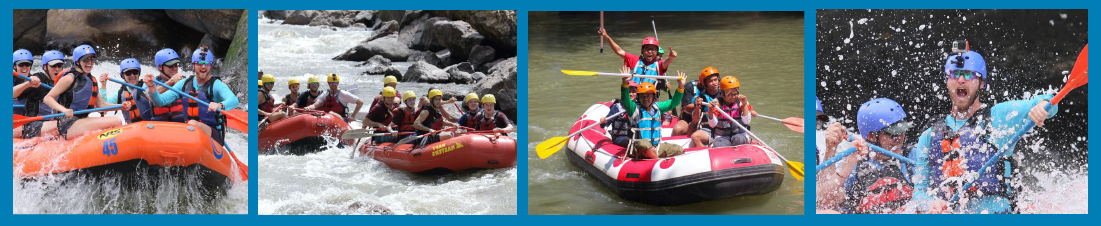
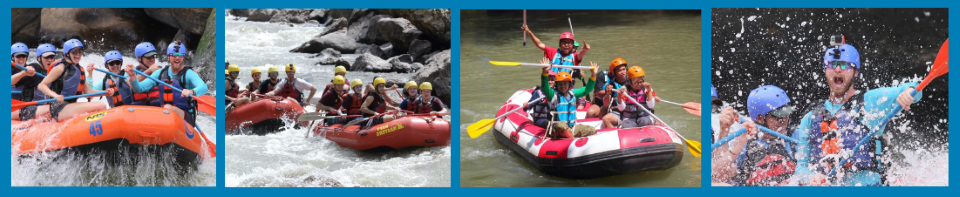
added content to faq

diff --git a/rafting/faq.html b/rafting/faq.html
@@ -23,24 +23,75 @@
 
     <nav>
       <ul>
-        <li><a href="index.html" title= "Site Home" >Home</a></li>
+        <li><a href="index.html" title= "Site Home">Home</a></li>
         <li><a href="river_trips.html" title="River Trips">River Trips</a></li>
-        <li><a href="faq.html" title="FAQ">FAQ</a></li>
+        <li><a href="faq.html" title="FAQ" class="active">FAQ</a></li>
         <li><a href="#" title="Book Your Expedition">Reservations</a></li>
       </ul>
     </nav>
   </header>
-
+  <h1>Frequently Asked Questions</h1>
   <main>
 
-    <section class= "container">
-      <h1>Frequently Asked Questions</h1>
+    <div class="container_faq">
+
  <!--Insert a YouTube Link to a Video-->
  <!--Insert the Book Now button-->
  <!--Insert a pull-down menu of questions and answers-->
- <!--Insert the Book Now button-->
+      <div class="faq_accordion">
 
-    </section>
+        <input type="checkbox" class="hidecontent"/>
+          <label>Which river trips do you recommend for children?</label>
+          <div class="content_hidecontent">
+            <p>We have found however that children over the age of 8 seem to enjoy it more overall (And parents especially enjoy it more if their children are all over 8).</p>
+            <p>A common concern we get from parents is that their children will be bored stuck on a boat for hours at a time. The areas we are rafting through are some of the most beautiful in the world, and you never know what you might see around any corner. Not to mention the rapids which keep things very interesting. Each boat also comes equipped with a guide. It has been proven that river guides are unable to go for very long at all without telling stories...some of which are even true!</p>
+          </input>
+
+        <input type="checkbox" class="hidecontent"/>
+          <label>Do I need to be a good swimmer to take a river trip?</label>
+          <div class="content_hidecontent">
+            <p>Everyone on commercial rafting trips wears coast guard approved life vest or personal flotation device (PFD). Many non swimmers go on rafting trips and have a great time. Your guide will give you an in depth and engaging safety talk before your trip begins explaining what you should prepare for and do in the event that you fall out of the raft.
+            </p>
+            <p>As with all adventure sports, there is an inherent and assumed element of risk. To help ensure your safety, our guides are all certified in Wilderness First aid and all start with at least 3 years of rafting experience. The most common injuries are sunburns and injuries that occur on land.</p>
+        </input>
+
+        <input type="checkbox" class="hidecontent"/>
+          <label>What is included in the trip?</label>
+          <div class="content_hidecontent">
+            <p>We will provide all necessary camping equipment. This includes a sleeping bag, foam pad, waterproof duffle bag, small waterproof day bag, tent and a cot, eating utensils and camping chair.</p>
+            <p>We provided water and lemonade during the day. Coffee, tea and hot chocolate are provided during the morning and evening hours. You may bring beer, liquor and soft drinks (in reasonable amounts, 2 cans per day). You may purchase these items either the night before the trip, or on your way to the put-in. 3 meals per day, plus snacks</p>
+        </input>
+
+        <input type="checkbox"class="hidecontent"/>
+          <label>What do I need to bring?</label>
+          <div class="content_hidecontent">
+            <p>The most effective way to plan is to be prepared for both hot & dry and cold & wet.</p>
+            <p>Rain jacket/waterproof pants- do not bring ponchos! <p>Quick-dry shirts and shorts, long sleeve cotton shirt and pants help keep you cooler on hot days. Button-down shirts provide more sun protection on the neck. Light-weight cotton or nylon pants or sarongs.</p>
+            <p>Swim trunks work great as shorts. If you tend to get cold, a polypropylene long underwear top and bottom can keep you warm. Women wear swimsuits or quick dry underwear and sport bras as a base layer during the day. Over the base layer, a pair of quick- dry shorts and the shirt of your choice (polypropylene or cotton). Two piece swim suits are convenient when changing or going to the bathroom.</p>
+            <p>Sunglasses and large brim hats with a good quality straps offer protection from the sun.</p>
+            </p>
+        </input>
+
+        <input type="checkbox" class="hidecontent"/>
+          <label>What can we expect on a typical day?</label>
+          <div class="content_hidecontent">
+            <p>Arise in the soft light of the early morning after a night spent sleeping under a beautiful starry sky. Have a hearty warm breakfast of fresh blueberry pancakes or omelets to order, then pack your things and prepare for the day. The day is filled with some combination of swift water, rapids, calms, hikes, history, geology, stories, and more good food. We try to hit camp around 4 or 5, after setting up your cot you can relax with a good book or good company by the river, or explore around camp while your guides prepare your dinner...something perhaps like steak and potatoes, or grilled salmon...and dutch oven brownies...you won't forget the dutch oven brownies. After dinner it's more relaxing, and you might even be able to talk your guide into another story or two to send you off to bed under more stars than you thought were possible.</p>
+        </input>
+
+        <input type="checkbox" class="hidecontent"/>
+          <label>How far in advance should I book my trip?</label>
+          <div class="content_hidecontent">
+            <p>If you have specific dates you need, we recommend booking a year in advance. If you can be more flexible 6 months in advance is usually sufficient.</p>
+        </input>
+        
+
+      </div>
+      <!--Insert the Book Now button-->
+      <img
+        src="images/four_fun_times.png"
+        alt="Four photos of teams on their river trips">
+
+    </div>
   </main>
 
   <footer>

diff --git a/rafting/css/style.css b/rafting/css/style.css
@@ -23,12 +23,15 @@ h2 {
     font-size: 32px; 
     text-align: center;
 }
-
 .invitation p {
     font-family: "Boogaloo", "Passion One Bold", sans-serif;
     font-size: 32px; 
     color:#ed5c02;
     text-align: center;
+}
+p {
+    font-family: "Calisto MT", san serif;
+    size: 20px; 
 }
 a {
     text-decoration: none;
@@ -80,15 +83,18 @@ a hover {
     margin-bottom: 15px;
 }
 .invitation {
-    position: absolute;
-    top: 15px;
-    right: 15px;
     background-color:aqua;
     border: 5px solid #ffde59;
     padding: 1.5rem;
     box-shadow: 5px 5px 3px #333;
     opacity: 75%;
 }
+.invitation {
+    position: absolute;
+    top: 15px;
+    right: 15px;
+}
+
 .invitation h2 {
     color: #ed5c02;
 }
@@ -97,6 +103,15 @@ a hover {
     padding-left: 25px;
     display: grid;
     grid-gap: 40px;
+    background-color: #e3fffd;
+    box-sizing: border-box;
+}
+.river_trips {
+    display:grid;
+    align-items: center;
+    justify-items: center;
+    padding-right:15px;
+    padding-left: 25px;
     background-color: #e3fffd;
     box-sizing: border-box;
 }
@@ -129,4 +144,55 @@ footer {
     padding: 10px;
     align-items: center;
     justify-content: space-between;
+}
+.container_faq{
+    padding: 50px;
+    background-color: #e3fffd;
+    box-sizing: border-box;
+}
+.hidecontent {
+    display: none;
+}
+.faq_accordion label {
+    box-shadow: 5px 5px 3px #333;
+    width: 960px;
+    cursor: pointer;
+    background: #007eb5;
+    color: white;
+    font-family: "Boogaloo", "Passion One Bold", sans-serif;
+    font-size: 25px; 
+    text-align: center;
+}
+.faq_accordion label:hover {
+    background: #ed5c02;
+}
+.hidecontent {
+    width: 75%;
+    justify-content: center;
+    box-shadow: 5px 5px 3px #333;
+    background: #c2fffc;
+    /*padding: 10px 25px;*/
+    border: 2px #007eb5;
+    /*margin: -1 0 0 0;*/
+}
+.faq_accordion input:checkbox + label + .content_hidecontent {
+    display: block;
+    webkit-animation: fade_in 0.5s ease-out;
+    -moz-animation: fade_in 0.5s ease-out;
+    -o-animation: fade_in 0.5s ease-out;
+}
+@-webkit-keyframes fade_in {
+    0% {
+        display: none;
+        opacity: 0;
+    }
+    1% {
+        display: block;
+        opacity: 0;
+    }
+    100% {
+        display: block;
+        opacity: 1;
+    }
+
 }

diff --git a/rafting/river_trips.html b/rafting/river_trips.html
@@ -33,9 +33,12 @@
 
   <main>
 
-    <section class= "container">
+    <section class= "river_trips">
       <h1>River Trips</h1>
   <!--Insert the Book Me button-->
+      <div class= "invitation">
+        <p>Book Now!</p>
+      </div>
   <!--Insert grid with the following sections: New River National Park and Preserve (top), Upper Gauley (2nd row, left), Lower Gauley (2nd row, right), Upper New River (3rd row, left), Lower New River (3rd row, right)-->
   <!--Each section of the grid has a clickable image that links to another page for more details-title appears on hover, a heading, brief list of characteristics-->
   <!--Insert Book Me button-->
